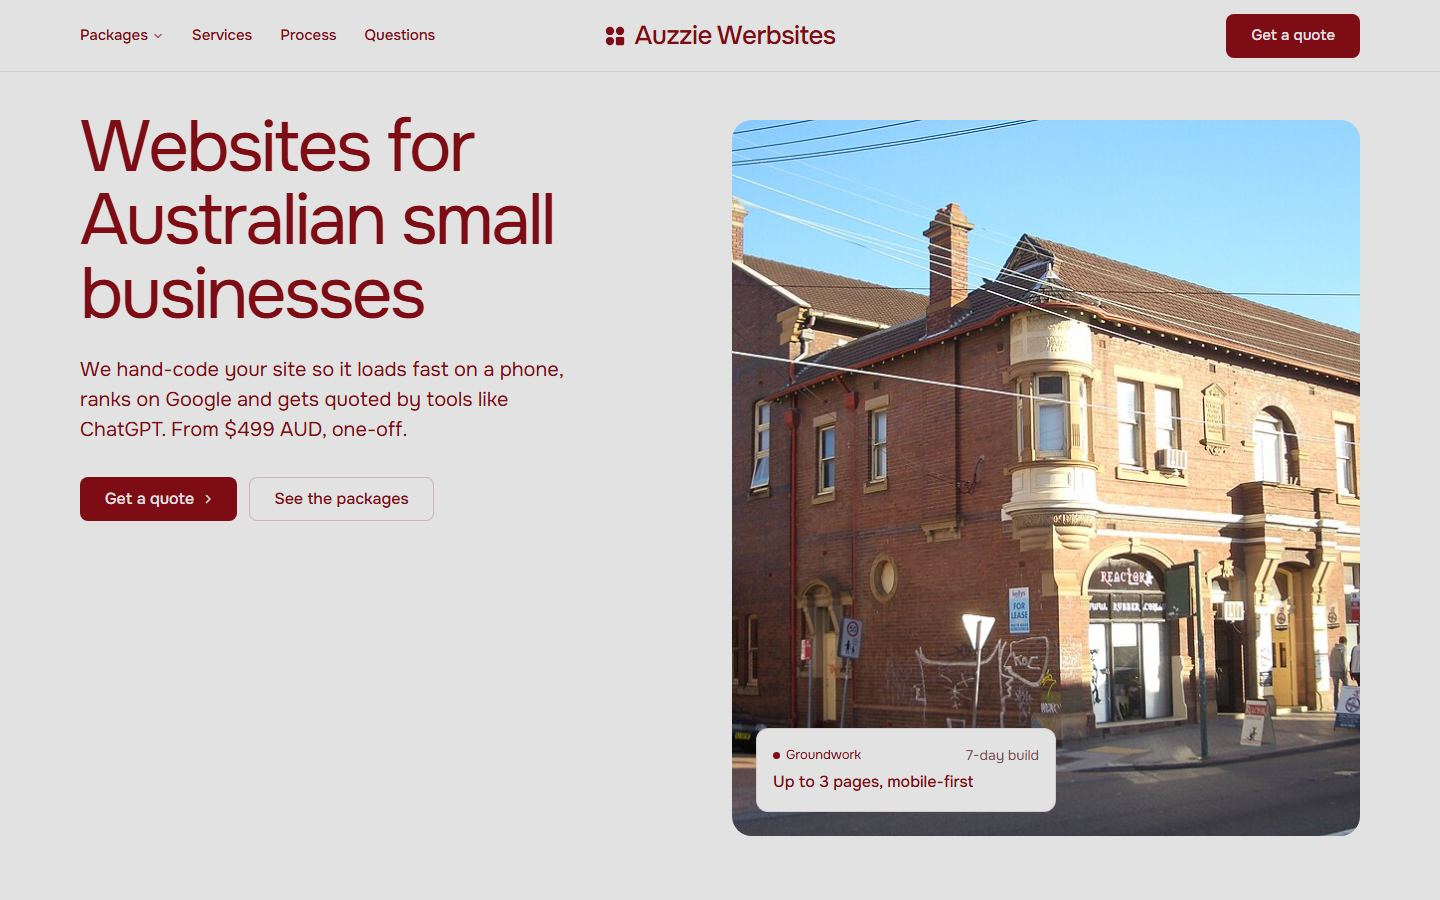
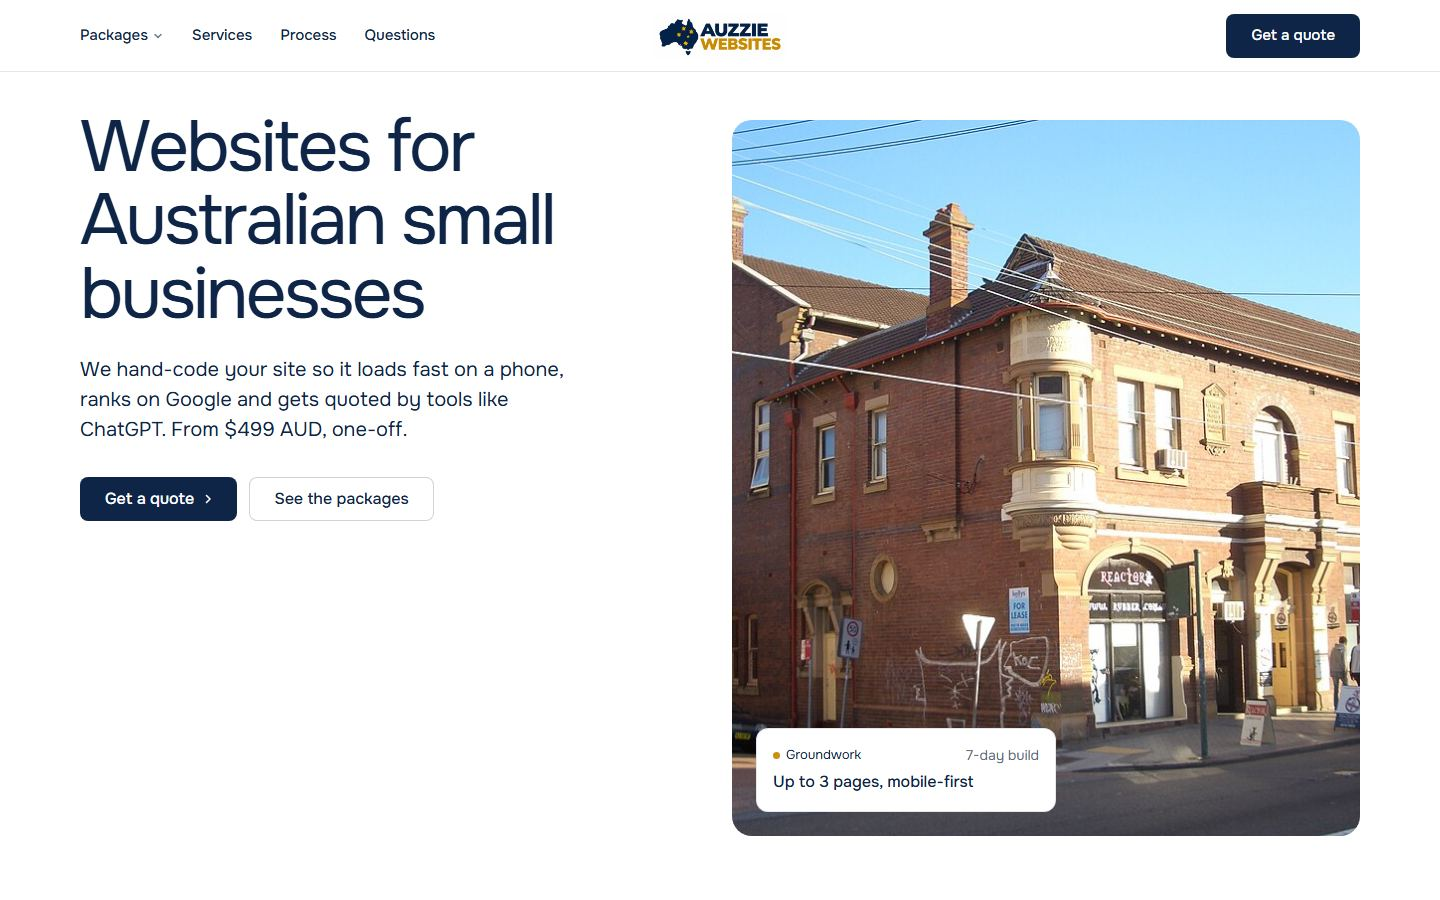
Use auzziewebsites.com as the custom domain
Adds the CNAME file for GitHub Pages, the canonical link and full
share-preview URLs on the domain, and a fresh share image in the
logo colours.

diff --git a/index.html b/index.html
@@ -8,11 +8,12 @@
 <meta property="og:type" content="website">
 <meta property="og:title" content="Auzzie Websites: websites for Australian small businesses">
 <meta property="og:description" content="Hand-coded sites from $499 AUD that load fast on a phone and get found on Google and AI search.">
-<meta property="og:image" content="share.jpg">
+<meta property="og:url" content="https://auzziewebsites.com/">
+<meta property="og:image" content="https://auzziewebsites.com/share.jpg">
 <meta name="twitter:card" content="summary_large_image">
 <link rel="icon" href="favicon.svg" type="image/svg+xml">
 <meta name="theme-color" content="#ffffff">
-<!-- <link rel="canonical" href="https://[the client's domain]/"> -->
+<link rel="canonical" href="https://auzziewebsites.com/">
 <meta name="site-kind" content="other">
 <meta name="page-type" content="service">
 <link rel="preconnect" href="https://fonts.googleapis.com">
